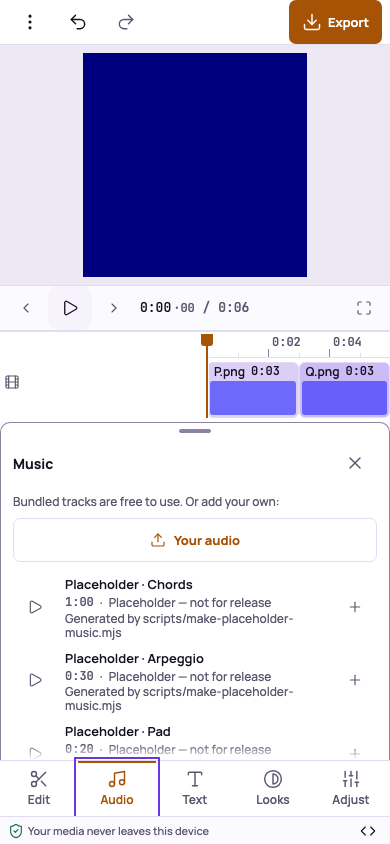
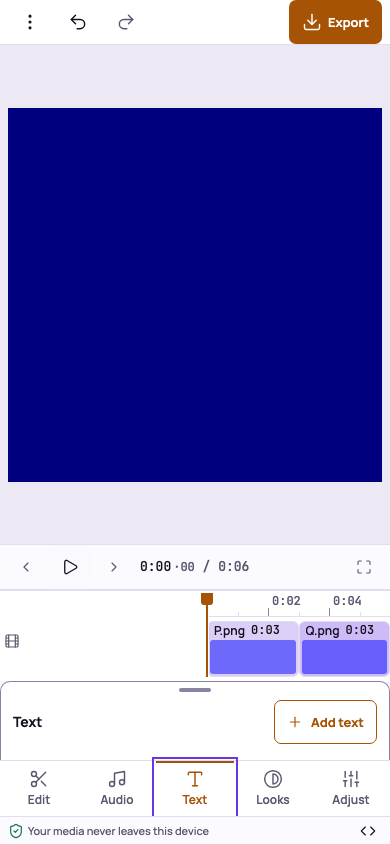
F-017 review fixes: tests for modified arrows on toolbar buttons and tabs, =/-/? in fields, Space on the phone tab bar, the empty-state N, Tab in the help over a maximised preview, presses beside the sheet's grab handle
Claude-Session: https://claude.ai/code/session_01Bq7VmPLAfYLmC9VGbgjiDp

diff --git a/tests/e2e/keyboard-touch.spec.ts b/tests/e2e/keyboard-touch.spec.ts
@@ -286,8 +286,11 @@ test.describe('F-017 keyboard (app harness)', () => {
       .first()
       .getByRole('button', { name: text('en-US', 'action.snapping') });
     await page.locator('body').focus();
+    // Empty state: a single N leaves Snapping as it was (unavailable), after the key has been handled.
+    expect(await snap.getAttribute('aria-pressed')).toBe('true');
     await page.keyboard.press('KeyN');
-    await expect(snap).toHaveAttribute('aria-pressed', 'true');
+    await page.evaluate(() => new Promise((r) => requestAnimationFrame(() => requestAnimationFrame(r))));
+    expect(await snap.getAttribute('aria-pressed')).toBe('true');
     await add(page, [photo('P.png')]);
     // 60 s, so the fitted view can zoom in (RULE-14's range).
     await page.evaluate(() => (window as unknown as Harness).appHarness.setClip(0, { seconds: 60 }));
@@ -351,6 +354,105 @@ test.describe('F-017 keyboard (app harness)', () => {
     expect((await preview(page)).state).toBe('paused');
     await page.keyboard.press('Escape');
     await expect(helpDialog(page)).toHaveCount(0);
+  });
+});
+
+test.describe('F-017 keyboard review checks (app harness)', () => {
+  test('F-017.AC2 =, - and ? typed in the text editor and in a number field type the character; no zoom, no help', async ({
+    page,
+  }) => {
+    await page.setViewportSize({ width: 1280, height: 800 });
+    await open(page);
+    await add(page, [video('A.mp4')]);
+    const track = page.locator('.tk-track');
+    const width = (await track.boundingBox())!.width;
+    // A number field: the Brightness field of the Adjust tab.
+    await clip(page, 'A.mp4').click();
+    const inspector = page.getByRole('complementary', { name: text('en-US', 'inspector.label') });
+    await inspector.getByRole('tab', { name: text('en-US', 'inspector.adjust') }).click();
+    const field = inspector
+      .getByRole('group', { name: text('en-US', 'adjust.brightness'), exact: true })
+      .getByRole('spinbutton');
+    await field.click();
+    await field.selectText();
+    await page.keyboard.type('-=?');
+    await expect(field).toHaveValue('-=?');
+    await page.keyboard.press('Escape');
+    // The text editor.
+    await timeline(page)
+      .getByRole('group', { name: text('en-US', 'timeline.main_track') })
+      .focus();
+    await page.keyboard.press('KeyT');
+    const editor = page.locator('.tk-texteditor__field');
+    await expect(editor).toBeFocused();
+    await page.keyboard.type('a=b-c?');
+    await expect(editor).toHaveValue(/a=b-c\?$/);
+    await expect(helpDialog(page)).toHaveCount(0);
+    expect((await track.boundingBox())!.width).toBeCloseTo(width, 0);
+  });
+
+  test('F-017.R1 RULE-20 Alt+Left on a focused toolbar button moves the selected clip earlier (not the toolbar, not browser Back)', async ({
+    page,
+  }) => {
+    await page.setViewportSize({ width: 1280, height: 800 });
+    await open(page);
+    await add(page, [photo('A.png'), photo('B.png')]);
+    await clip(page, 'B.png').click();
+    const url = page.url();
+    const split = timeline(page)
+      .getByRole('toolbar')
+      .first()
+      .getByRole('button', { name: text('en-US', 'action.split'), exact: true });
+    await split.focus();
+    await page.keyboard.press('Alt+ArrowLeft');
+    await expect.poll(() => order(page)).toEqual(['B.png', 'A.png']);
+    await expect(split).toBeFocused();
+    expect(page.url()).toBe(url);
+  });
+
+  test('F-017.R3 with the preview maximised, ? opens the list and Tab / Shift+Tab move between its controls', async ({
+    page,
+    browserName,
+  }) => {
+    await page.setViewportSize({ width: 1280, height: 800 });
+    await open(page);
+    await add(page, [photo('P.png')]);
+    await page.getByRole('button', { name: text('en-US', 'action.full_screen') }).click();
+    await expect(page.locator('.tk-fullscreen-bar')).toBeVisible();
+    await page.keyboard.press('Shift+Slash');
+    const dialog = helpDialog(page);
+    await expect(dialog).toBeVisible();
+    const close = dialog.getByRole('button', { name: text('en-US', 'action.close') });
+    const list = dialog.getByRole('region', { name: text('en-US', 'help.title') });
+    await expect(close).toBeFocused();
+    await page.keyboard.press(tabKey(browserName));
+    await expect(list).toBeFocused();
+    await page.keyboard.press(browserName === 'webkit' ? 'Alt+Shift+Tab' : 'Shift+Tab');
+    await expect(close).toBeFocused();
+    // In the browser's real full screen (WebKit here) the browser takes the first Esc to leave it; the next
+    // Esc reaches the list. Maximised in the page (Chromium here), one Esc closes the list.
+    await page.keyboard.press('Escape');
+    await page.waitForTimeout(200);
+    if ((await dialog.count()) > 0) await page.keyboard.press('Escape');
+    await expect(dialog).toHaveCount(0);
+  });
+
+  test('CMP-ShortcutHelp narrow: a press beside the grab handle stays inside the sheet; a press on the scrim closes it', async ({
+    page,
+  }) => {
+    await page.setViewportSize({ width: 390, height: 844 });
+    await open(page);
+    await page.locator('body').focus();
+    await page.keyboard.press('Shift+Slash');
+    const dialog = helpDialog(page);
+    await expect(dialog).toBeVisible();
+    await dialog.evaluate((el) => Promise.all(el.getAnimations().map((x) => x.finished)));
+    const box = (await dialog.boundingBox())!;
+    await page.mouse.click(box.x + 20, box.y + 4);
+    await page.mouse.click(box.x + box.width - 20, box.y + 4);
+    await expect(dialog).toBeVisible();
+    await page.mouse.click(box.x + 20, box.y - 40);
+    await expect(dialog).toHaveCount(0);
   });
 });
 
@@ -501,6 +603,19 @@ test.describe('F-017 roving focus (app harness)', () => {
     await page.keyboard.press('Enter');
     await expect(tab('tab.audio')).toHaveAttribute('aria-selected', 'true');
     expect(await tablist.locator('[tabindex="0"]').count()).toBe(1);
+    // Space opens a tab's sheet too (a focused tab keeps Space; playback does not toggle).
+    await tab('tab.audio').click();
+    await expect(tab('tab.audio')).toHaveAttribute('aria-selected', 'false');
+    await tab('inspector.text').focus();
+    await page.keyboard.press('Space');
+    await expect(tab('inspector.text')).toHaveAttribute('aria-selected', 'true');
+    expect((await preview(page)).state).toBe('paused');
+    // Alt+Right on a focused tab is not the tab list's: it reaches RULE-20 (no tab moves, no browser Back).
+    const url = page.url();
+    await tab('inspector.text').focus();
+    await page.keyboard.press('Alt+ArrowRight');
+    await expect(tab('inspector.text')).toBeFocused();
+    expect(page.url()).toBe(url);
     await shot(page, 'tabbar-audio-sheet', browserName);
   });
 });

diff --git a/src/app/ShortcutHelp.tsx b/src/app/ShortcutHelp.tsx
@@ -75,33 +75,33 @@ export function ShortcutHelp() {
     >
       {/* One element fills the dialog, so only the real scrim (the dialog element) counts as a press outside. */}
       <div class="tk-help__inner">
-      <span class="tk-help__grab" aria-hidden="true" />
-      <div class="tk-help__head">
-        <h2 id={TITLE_ID} class="tk-help__title" data-copy="help.title">
-          {t('help.title')}
-        </h2>
-        <button
-          ref={close}
-          type="button"
-          class="tk-icon-button tk-help__close"
-          aria-label={t('action.close')}
-          title={t('action.close')}
-          data-copy="action.close"
-          onClick={closeHelp}
-        >
-          <Icon name="close" size={20} />
-        </button>
-      </div>
-      {/* NFR-06: the list scrolls inside the dialog and is reachable by keyboard (axe scrollable-region-focusable). */}
-      {/* eslint-disable-next-line jsx-a11y/no-noninteractive-tabindex */}
-      <div class="tk-help__body" role="region" aria-labelledby={TITLE_ID} tabIndex={0}>
-        {column(1)}
-        {column(2)}
-        {column(3)}
-      </div>
-      <p class="tk-help__scope" data-copy="help.scope">
-        {t('help.scope')}
-      </p>
+        <span class="tk-help__grab" aria-hidden="true" />
+        <div class="tk-help__head">
+          <h2 id={TITLE_ID} class="tk-help__title" data-copy="help.title">
+            {t('help.title')}
+          </h2>
+          <button
+            ref={close}
+            type="button"
+            class="tk-icon-button tk-help__close"
+            aria-label={t('action.close')}
+            title={t('action.close')}
+            data-copy="action.close"
+            onClick={closeHelp}
+          >
+            <Icon name="close" size={20} />
+          </button>
+        </div>
+        {/* NFR-06: the list scrolls inside the dialog and is reachable by keyboard (axe scrollable-region-focusable). */}
+        {/* eslint-disable-next-line jsx-a11y/no-noninteractive-tabindex */}
+        <div class="tk-help__body" role="region" aria-labelledby={TITLE_ID} tabIndex={0}>
+          {column(1)}
+          {column(2)}
+          {column(3)}
+        </div>
+        <p class="tk-help__scope" data-copy="help.scope">
+          {t('help.scope')}
+        </p>
       </div>
     </dialog>
   );
